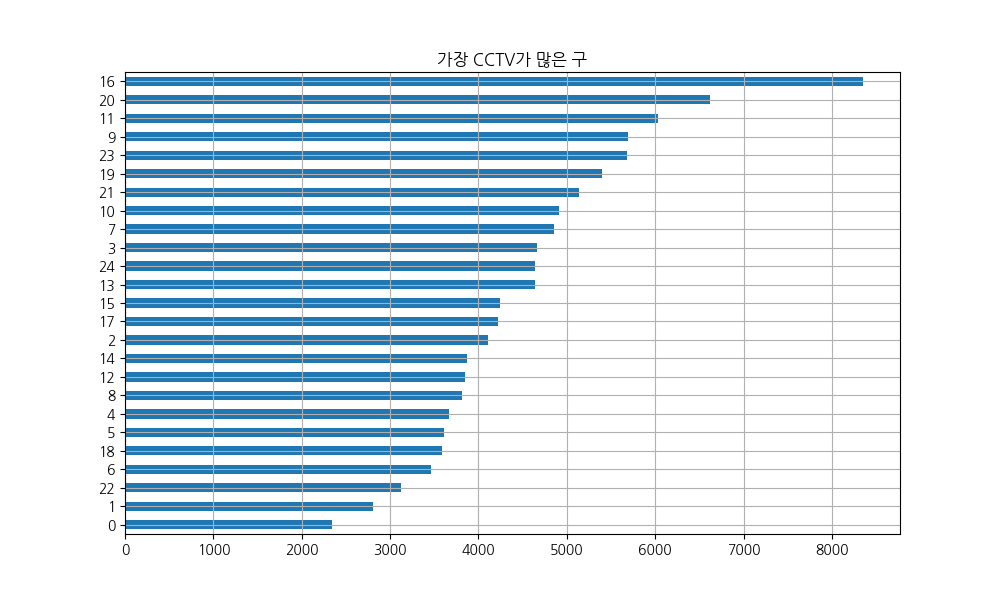
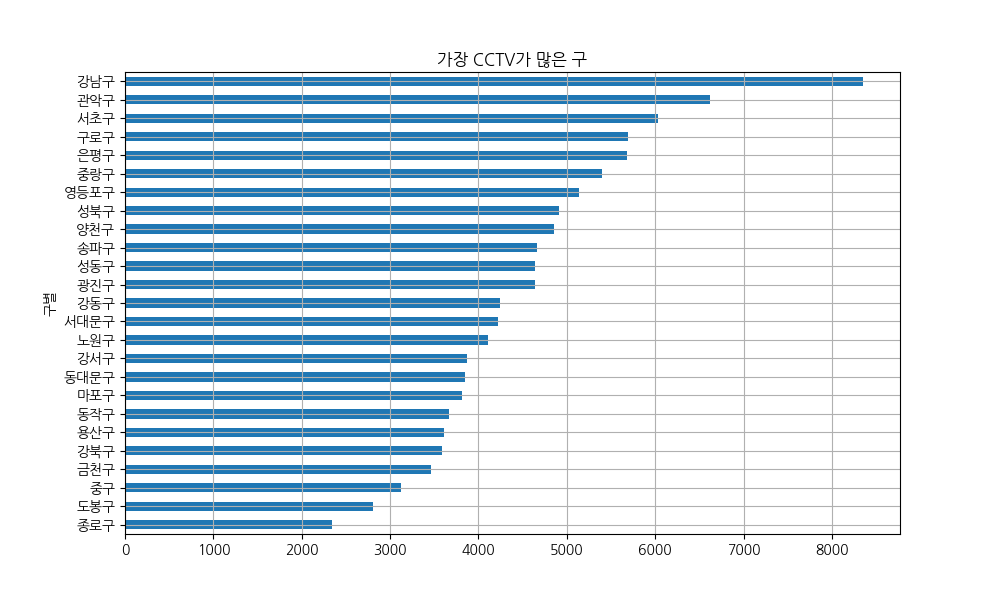
CCTV image modify

Changed region(s): [[0.031, 0.12, 0.124, 0.9]]

diff --git a/seoul_cctv.py b/seoul_cctv.py
@@ -50,6 +50,8 @@ def org_data():
     seoul_data = seoul_merge.drop(columns=cols_to_drop) # 필요없는 칼럼 삭제
     
     seoul_data["CCTV비율"] = seoul_data["총 계"] / seoul_data["전체인구"] * 100
+    seoul_data = seoul_data.set_index("구별")
+    print(seoul_data)
     
     return seoul_data
 
@@ -61,20 +63,16 @@ def drawGraph():
 def drawPlot():
     plt.figure(figsize=(10,6))
     plt.scatter(x=seoul_data["전체인구"], y=seoul_data["총 계"], label="CCTV 개수", color="blue")
-    line = np.polyfit(seoul_data["전체인구"], seoul_data["총 계"], 1)
+    line = np.polyfit(seoul_data["전체인구"], seoul_data["총 계"], 1) # 경향선을 위한 1차 함수 만들기
     trend_line = np.poly1d(line)
-    plt.plot(seoul_data["전체인구"], trend_line(seoul_data["전체인구"]), color="red", label="Trend Line")
+    plt.plot(seoul_data["전체인구"], trend_line(seoul_data["전체인구"]), color="red", label="Trend Line") # x축방향으로 경향선 그리기
 
     plt.title("인구 수에 따른 CCTV 개수")
     plt.xlabel("인구수")
     plt.ylabel("CCTV 개수")
     plt.legend()
     plt.grid(True)
-    plt.savefig("CCTV_plot.png", dpi=300, bbox_inches='tight')
-
-    plt.show()
-
-
+    plt.savefig("CCTV_plot.png")
 
 org_data()
 drawGraph()
